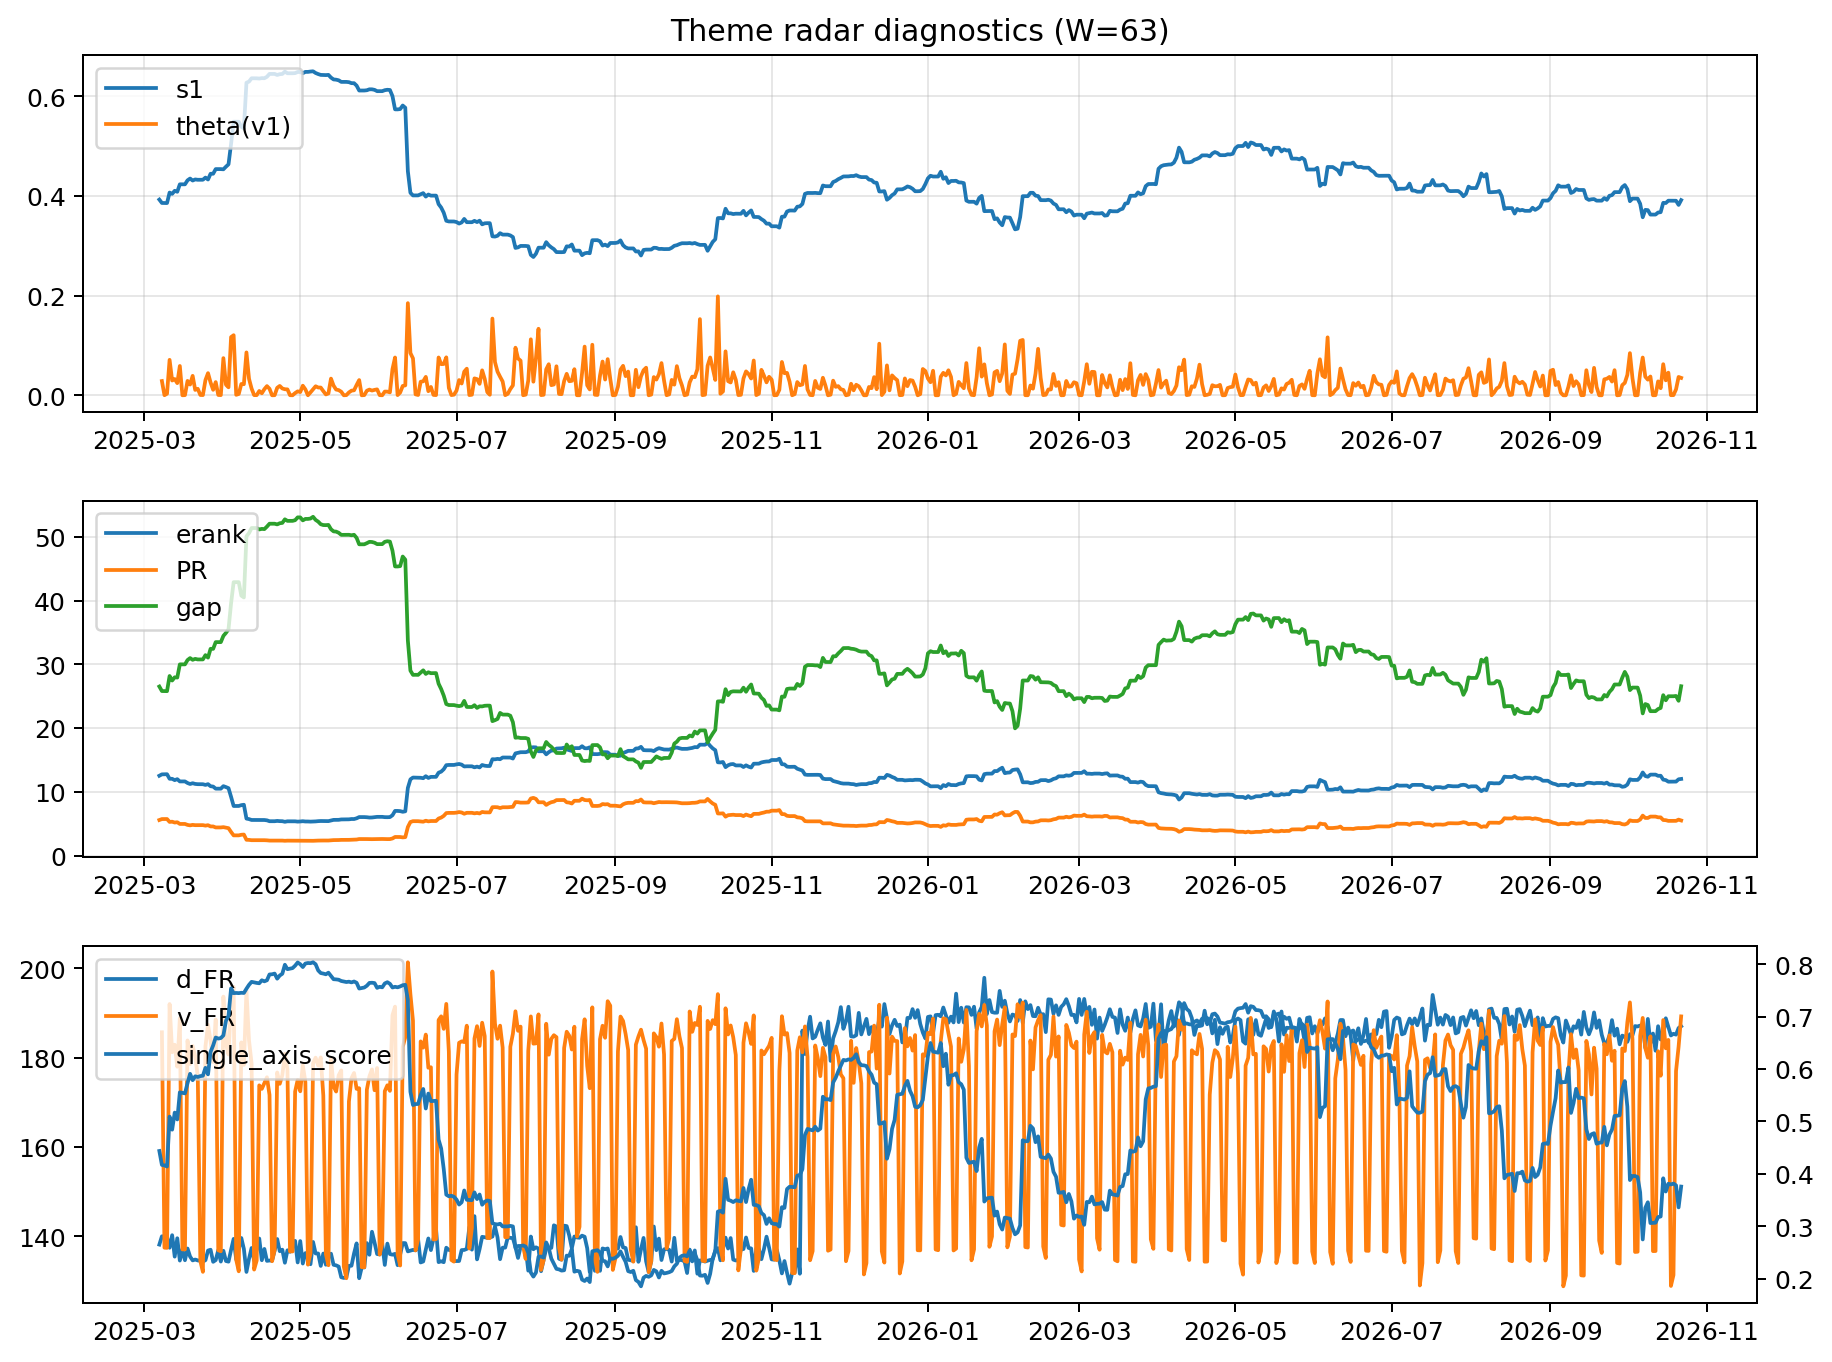
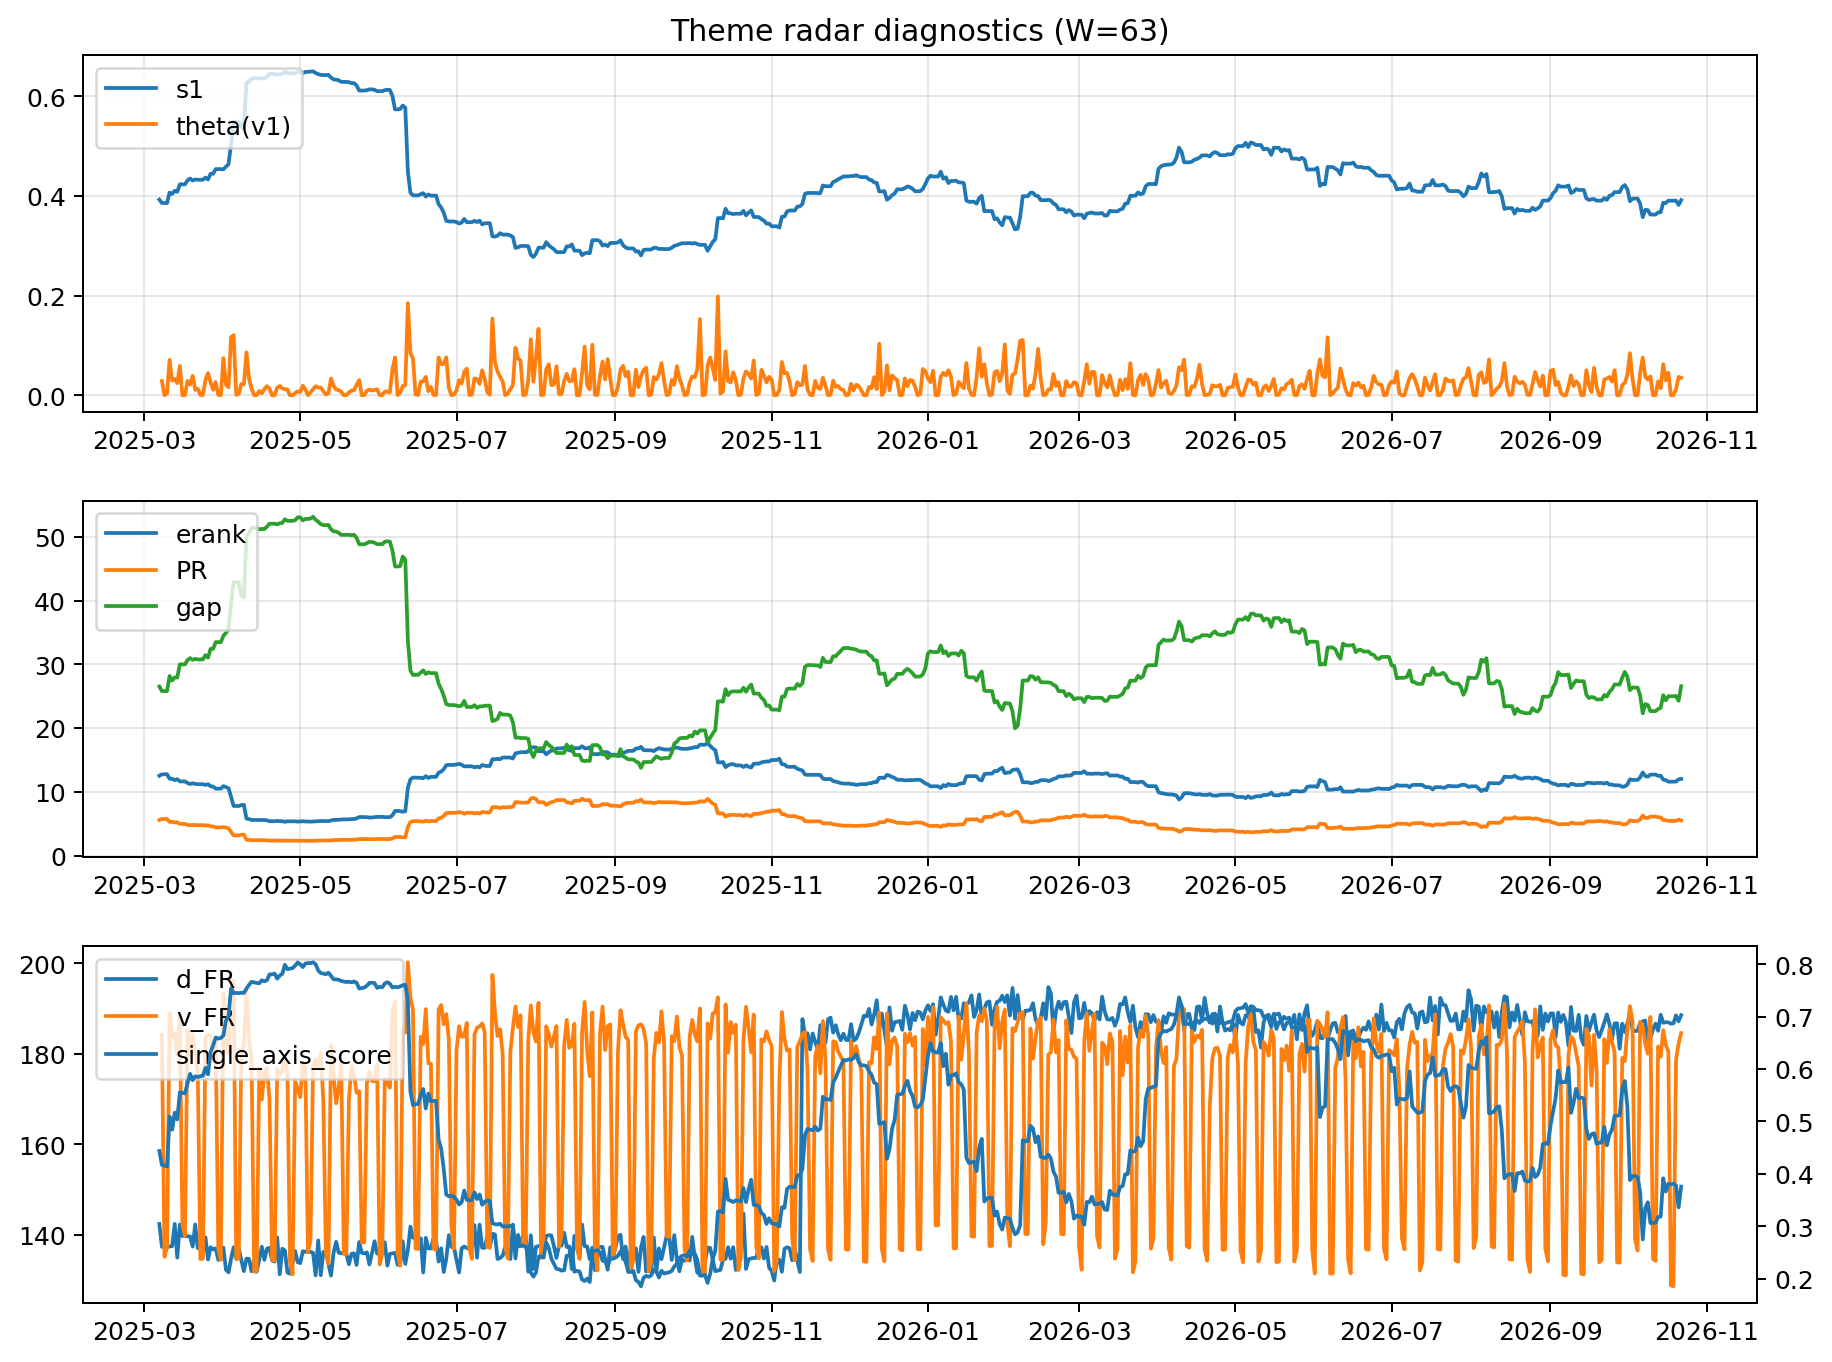
log: 2026-10-22 | sha256:375d65ccea143933f2022824473a71613b0ac49e25e968c223e15dcc9c69bc08

diff --git a/logs/2026-10-22.md b/logs/2026-10-22.md
@@ -3,52 +3,52 @@
 ![diagnostic W63](../assets/diagnostic/2026-10-22_W63.png)
 
 ## Leaders (v1) — W=63
-- **Nuclear_Uranium** (0.0768358661716571)
-- Semis (0.0627990550459356)
-- Quantum (0.0568221945076152)
+- **Nuclear_Uranium** (0.0768358590810175)
+- Semis (0.0627990444327657)
+- Quantum (0.0568221904424982)
 
 ## Challengers — W=63
-**v2:** Rates (0.1107750562766657), Semis (0.1079085927517717), Space (0.0554261604486802)
-**v3:** Software_Cloud (0.0997633155314717), Grid_Power (0.0661106141582155), Genomics_Bio (0.0655283864448741)
+**v2:** Rates (0.1107751281856909), Semis (0.1079086307641406), Space (0.055426150061198)
+**v3:** Software_Cloud (0.0997633280623368), Grid_Power (0.066110604914569), Genomics_Bio (0.0655283830697743)
 
 ## Migration (20D slope) — W=63
 **Top risers:**
-- axis_MegaCap_AI: 0.0006635631813726
-- axis_Crypto: 0.0005411791883913
-- axis_Cyber: 0.0003565914162424
-- axis_Software_Cloud: 0.0003535080949242
-- axis_Sector_ConsStap: 0.0003058193625018
-- axis_Metals: 0.0002958791132782
-- axis_Nuclear_Uranium: 0.0001745113224974
-- axis_Vol: 0.0001387815755708
-- axis_Critical_Minerals: 0.0001243706646405
-- axis_DataCenter_Infra: 6.624486290066817e-05
+- axis_MegaCap_AI: 0.0006635626618706
+- axis_Crypto: 0.0005411789421481
+- axis_Cyber: 0.0003565909604666
+- axis_Software_Cloud: 0.0003535072445414
+- axis_Sector_ConsStap: 0.0003058194220852
+- axis_Metals: 0.0002958796477574
+- axis_Nuclear_Uranium: 0.0001745112682506
+- axis_Vol: 0.0001387814488068
+- axis_Critical_Minerals: 0.000124370982862
+- axis_DataCenter_Infra: 6.624493417584452e-05
 
 **Top fallers:**
-- axis_Equity_US: -0.0001059356076117
-- axis_Space: -0.000120804514863
-- axis_Equity_ExUS: -0.0001213306908961
-- axis_Sector_Utilities: -0.0001383110736504
-- axis_Sector_Materials: -0.0001457900497852
-- axis_Defense: -0.000213603678314
-- axis_Commodities: -0.0002535346372088
-- axis_Credit: -0.0002852364543063
-- axis_Genomics_Bio: -0.0002923392375513
-- axis_Rates: -0.0010489952199288
+- axis_Equity_US: -0.0001059359728252
+- axis_Space: -0.0001208045189887
+- axis_Equity_ExUS: -0.0001213307469578
+- axis_Sector_Utilities: -0.0001383110385097
+- axis_Sector_Materials: -0.0001457899541703
+- axis_Defense: -0.0002136035555845
+- axis_Commodities: -0.0002535349944811
+- axis_Credit: -0.0002852352804797
+- axis_Genomics_Bio: -0.0002923390105194
+- axis_Rates: -0.0010489939929717
 
 ## Risk line (W=63)
-- s1: 0.3915188308518927
-- theta_v1: 0.0349280042145259
-- v_FR: 189.26438666373744
+- s1: 0.3915188507970313
+- theta_v1: 0.0349280092024486
+- v_FR: 184.56749686255975
 - single_axis_score: 0.3757983193277311
 
 ## Interpretation
-**Regime:** `structure_rewrite`
+**Regime:** `theme_migration`
 
 - Action: Tomorrow watchlist: MegaCap_AI, Crypto, Cyber, Software_Cloud, Sector_ConsStap + v2_top1=Rates
-- Action: Hedge note: v_FR high → structure is re-writing; treat correlation assumptions as fragile.
+- Action: Hedge note: normal correlation stability.
 
-- Percentiles (W=63 history): vfr_pct=0.94, theta_pct=0.74, s1_pct=0.40, score_pct=0.32.
+- Percentiles (W=63 history): vfr_pct=0.75, theta_pct=0.74, s1_pct=0.40, score_pct=0.32.
 
 ---
[2 lines of base64/hex data omitted]
